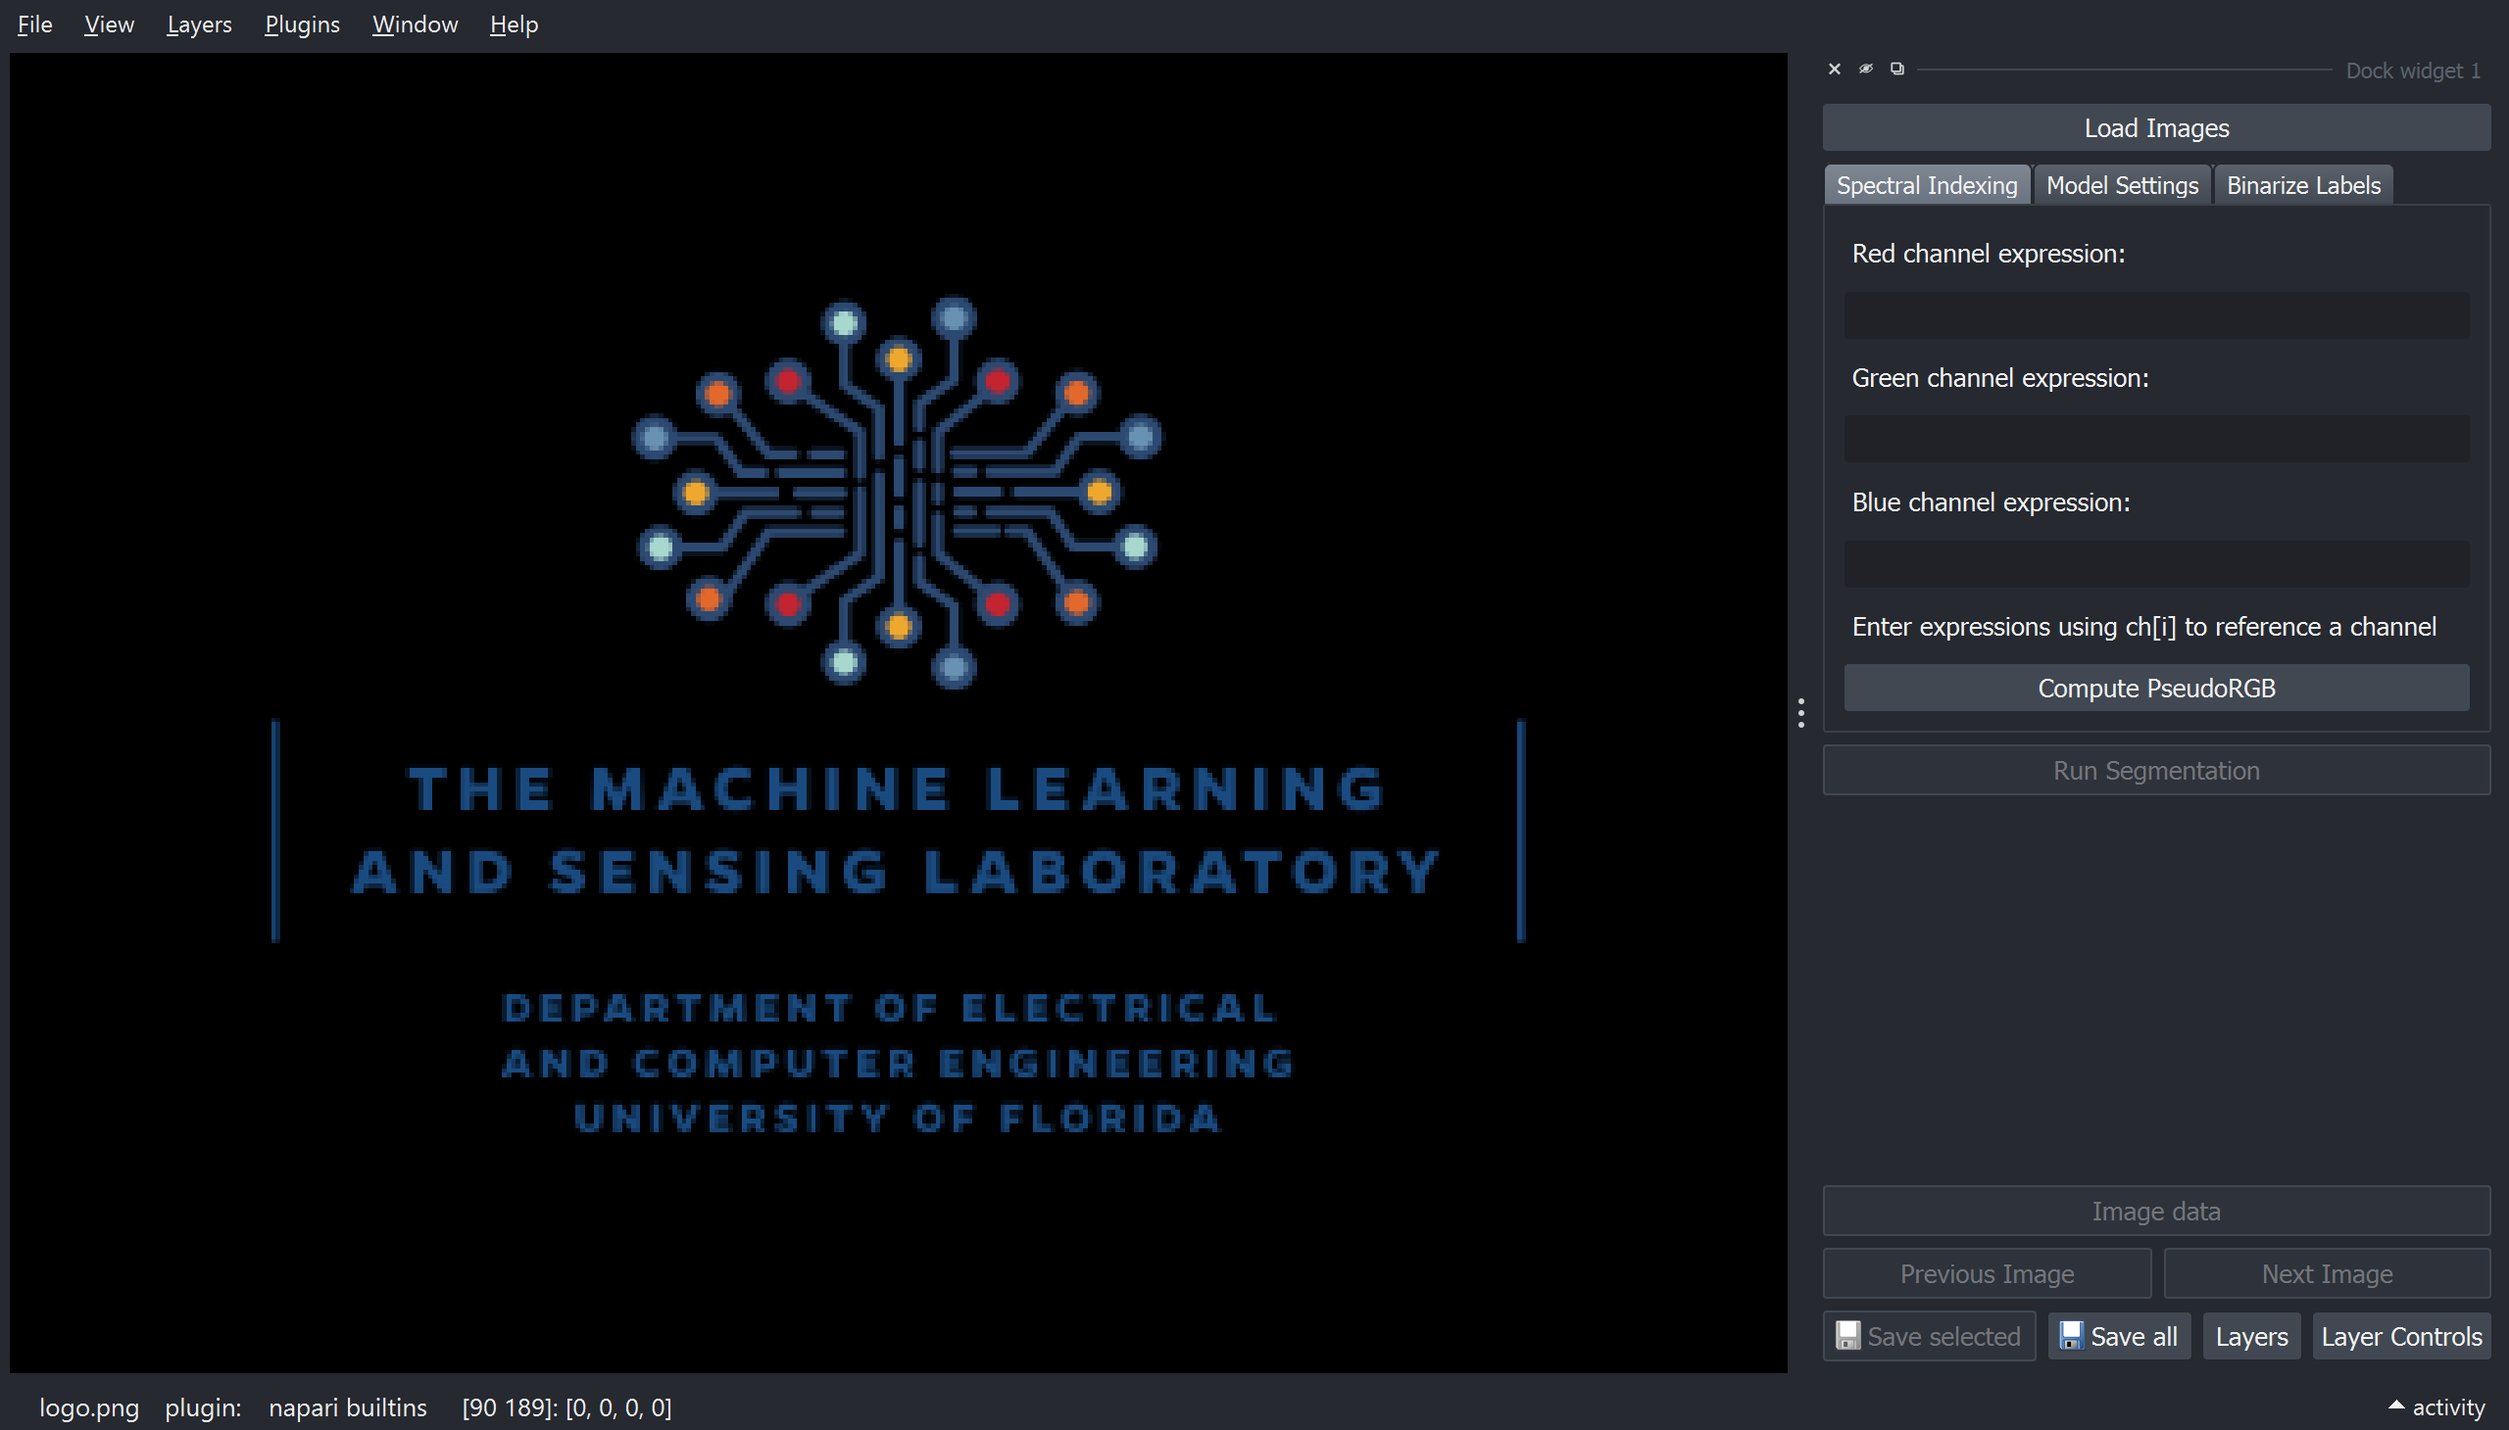
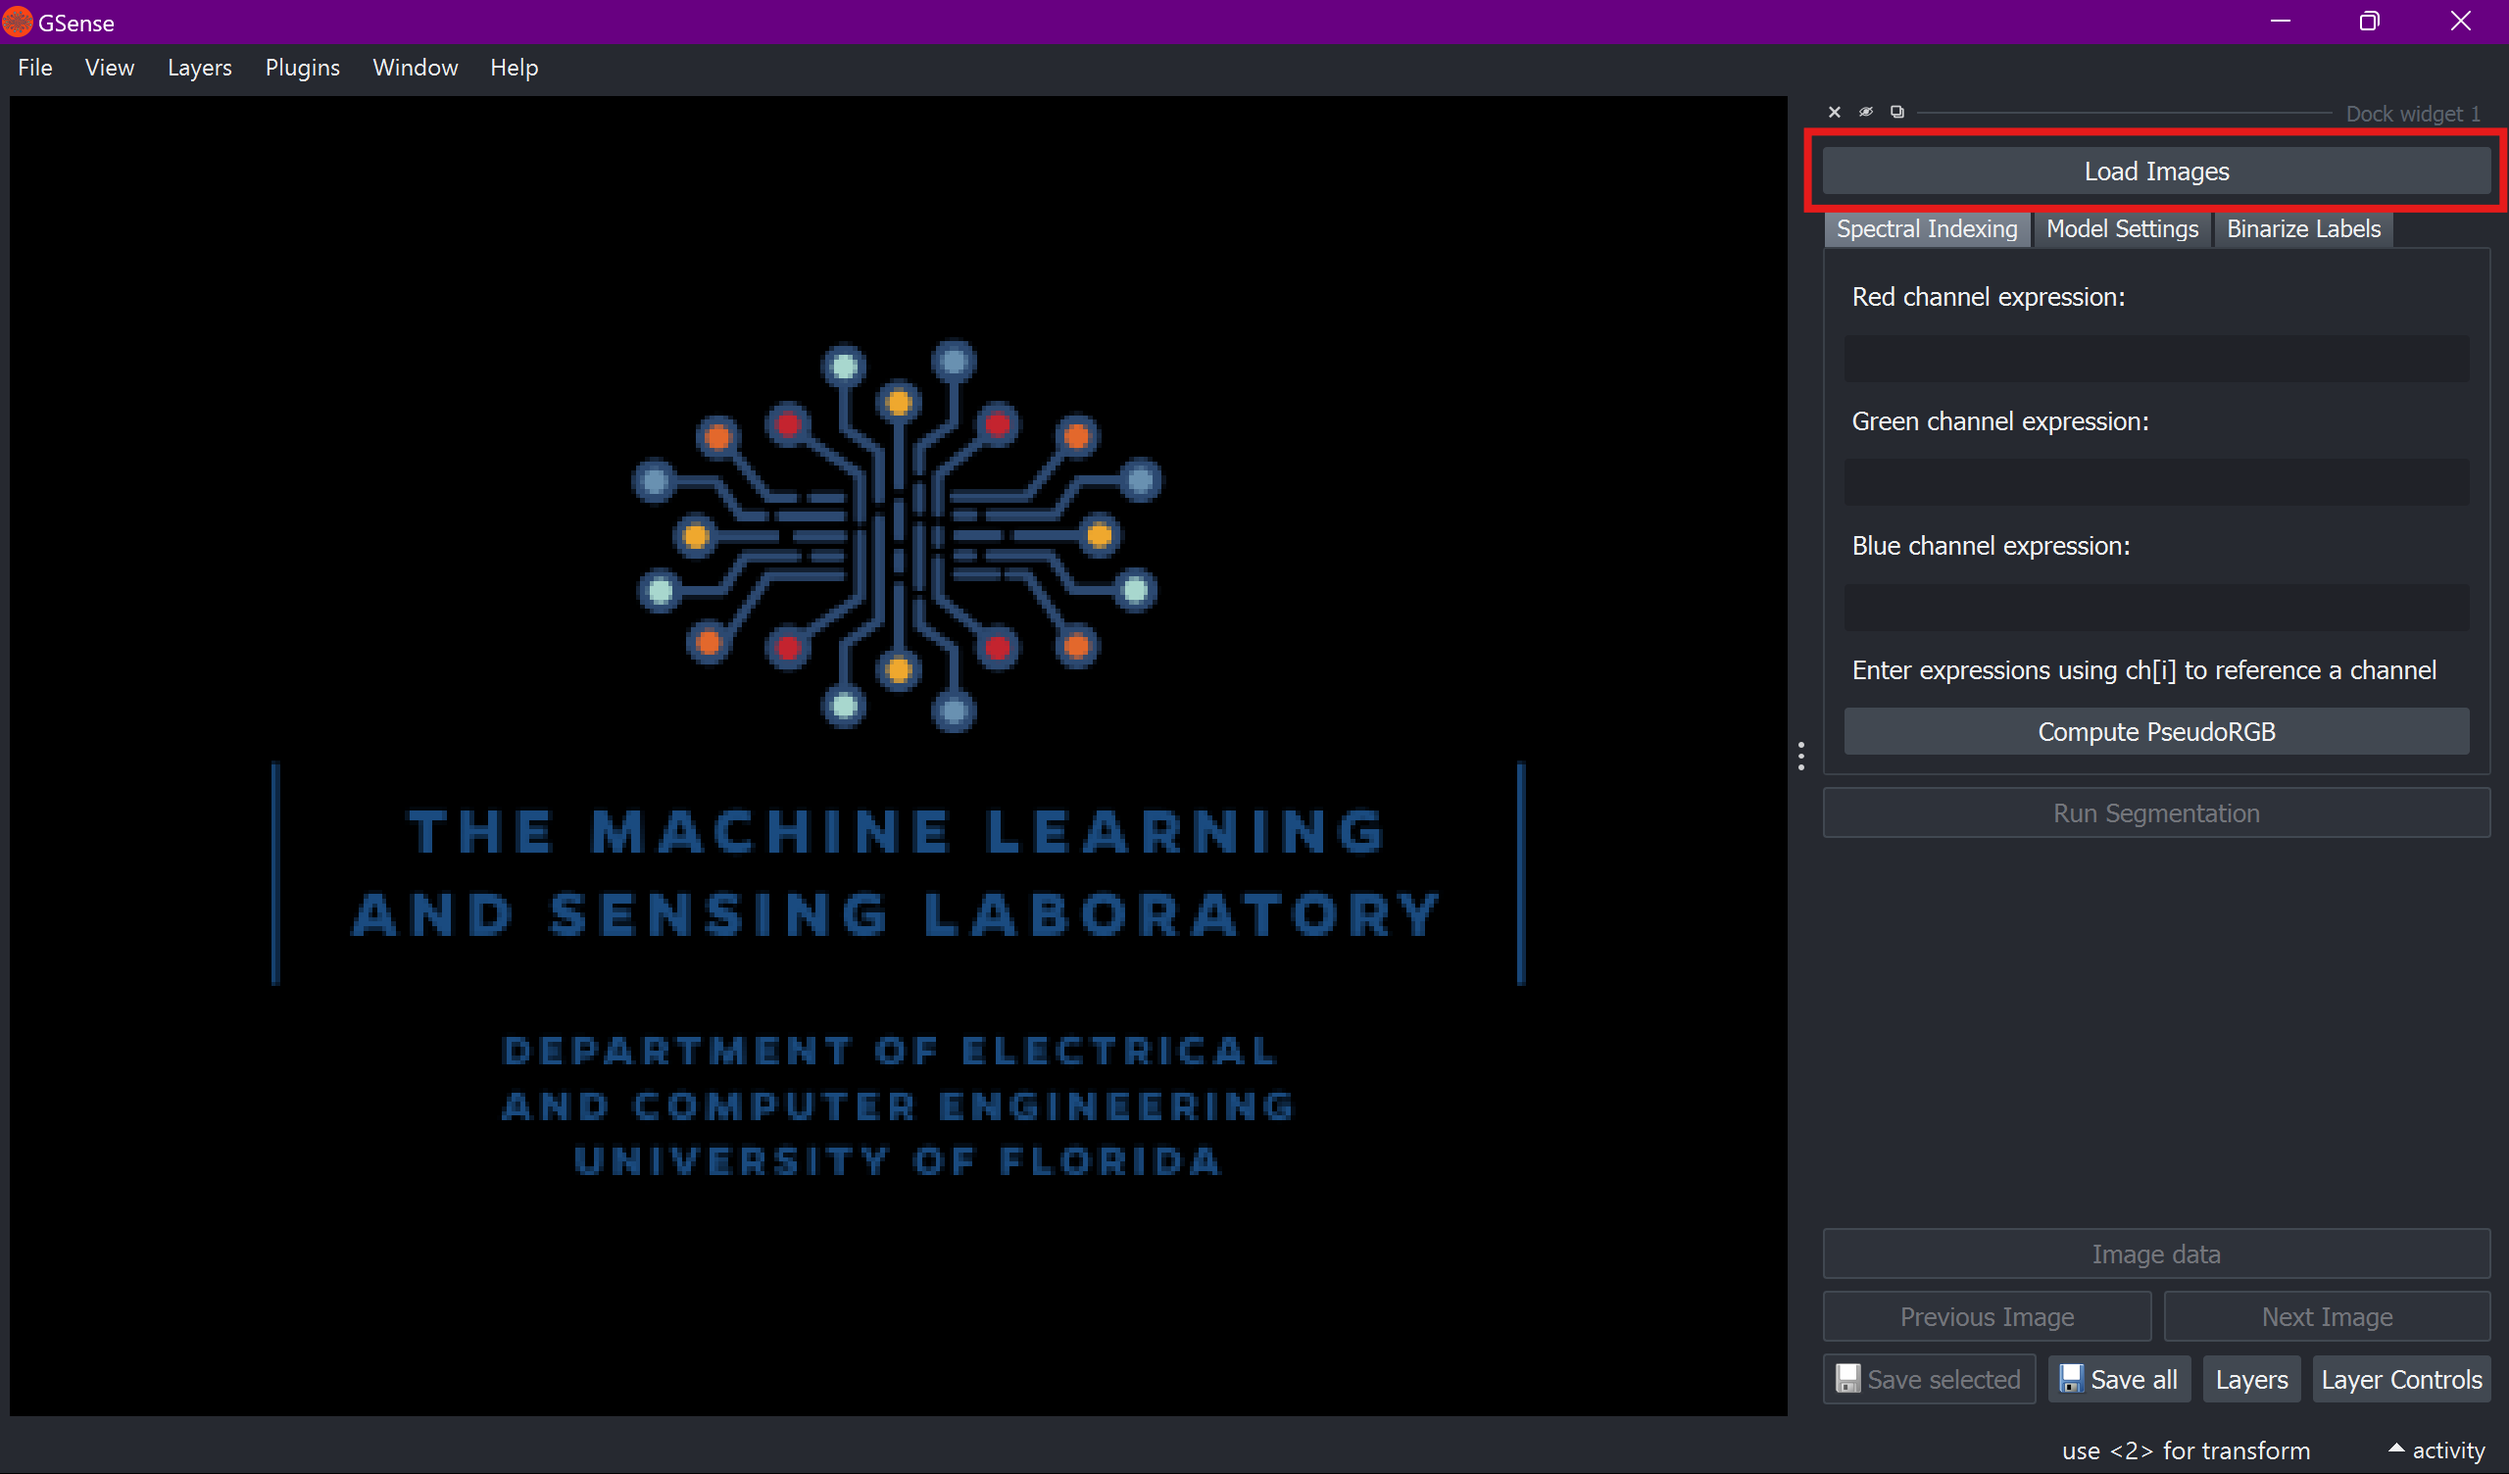
GITBOOK-13: No subject

diff --git a/docs/basics/editor/README.md b/docs/basics/editor/README.md
@@ -1,9 +1,13 @@
 ---
-description: with Meta AI's Segment Anything Model (SAM)
 icon: images
+description: with Meta AI's Segment Anything Model (SAM)
 ---
 
 # Image Segmentation
+
+The image segmentation feature employs Meta AI's Segment Anything Model (SAM) to partition images into distinct, meaningful segments. This state-of-the-art Vision Transformer based promptable segmentation algorithm with zero-shot generalization allows for precise isolation of image components.&#x20;
+
+###
 
 ### Usage
 
@@ -19,12 +23,3 @@ Note: Make sure to choose 'Vit-b' model type from the dropdown field in the Mode
 
 
 
-GitBook has a powerful block-based editor that allows you to seamlessly create, update, and enhance your content.
-
-<figure><img src="https://gitbookio.github.io/onboarding-template-images/editor-hero.png" alt=""><figcaption></figcaption></figure>
-
-### Writing content
-
-GitBook offers a range of block types for you to add to your content inline — from simple text and tables, to code blocks and more. These elements will make your pages more useful to readers, and offer extra information and context.
-
-Either start typing below, or press `/` to see a list of the blocks you can insert into your page.

diff --git a/docs/basics/markdown.md b/docs/basics/markdown.md
@@ -4,23 +4,7 @@ icon: monitor-waveform
 
 # Spectral Indexing
 
-GitBook supports many different types of content, and is backed by Markdown — meaning you can copy and paste any existing Markdown files directly into the editor!
+Spectral indexing empowers users to apply a variety of spectral indices, which can reveal specific characteristics or anomalies within images. This tool is indispensable in areas such as remote sensing and agricultural analysis, where understanding subtle spectral differences can lead to significant insights.
 
-<figure><img src="https://gitbookio.github.io/onboarding-template-images/markdown-hero.png" alt=""><figcaption></figcaption></figure>
 
-Feel free to test it out and copy the Markdown below by hovering over the code block in the upper right, and pasting into a new line underneath.
 
-```markdown
-# Heading
-
-This is some paragraph text, with a [link](https://docs.gitbook.com) to our docs. 
-
-## Heading 2
-- Point 1
-- Point 2
-- Point 3
-```
-
-{% hint style="info" %}
-If you have multiple files, GitBook makes it easy to import full repositories too — allowing you to keep your GitBook content in sync.
-{% endhint %}

diff --git a/docs/README.md b/docs/README.md
@@ -15,7 +15,7 @@ layout:
 
 # Welcome to GSense
 
-**GSense** is a comprehensive tool for the annotation of hyperspectral and RGB images. It is designed in particular to make the challenging process of hyperspectral image annotation simple and efficient. GSense is built on Napari, a powerful GUI based visualization and annotation package which helps us leverage its benefits and expand them with our own functionality.&#x20;
+[**GSense**](https://github.com/GatorSense/GSense?tab=readme-ov-file) is a comprehensive tool for the annotation of hyperspectral and RGB images. It is designed in particular to make the challenging process of hyperspectral image annotation simple and efficient. GSense is built on Napari, a powerful GUI based visualization and annotation package which helps us leverage its benefits and expand them with our own functionality.&#x20;
 
 In GSense, you can load multiple images at once, mix spectral channels to generate visual pseudo-RGB representations, segment images using Meta AI's Segment Anything Model with default or custom model checkpoints, and export annotation masks.&#x20;
 

diff --git a/docs/getting-started/publish-your-docs/main-functionalities.md b/docs/getting-started/publish-your-docs/main-functionalities.md
@@ -1,0 +1,16 @@
+---
+description: >-
+  To enhance the analysis and annotation of loaded images, utilize the spectral
+  indexing, image segmentation, and label binarization functionalities of
+  GSense.
+---
+
+# Main functionalities
+
+<table><thead><tr><th width="247">Spectral Indexing</th><th width="231">Image Segmentation</th><th>Label Binarizer</th></tr></thead><tbody><tr><td><img src="../../.gitbook/assets/image (13).png" alt="" data-size="original"></td><td><img src="../../.gitbook/assets/image (14).png" alt="" data-size="original"></td><td><img src="../../.gitbook/assets/image (9).png" alt=""></td></tr></tbody></table>
+
+**Spectral Indexing**: Apply spectral indices to images to generate pseudo-RGB (false-color) images for identifying characteristics or anomalies, useful in remote sensing.
+
+**Image Segmentation**: Partition generated pseudo-RGB images into meaningful segments for downstream computer vision applications.
+
+**Label Binarizer**: Convert categorical labels to binary labels for machine learning model training.

diff --git a/docs/getting-started/quickstart.md b/docs/getting-started/quickstart.md
@@ -95,20 +95,4 @@ python -m app.main
 
 ### Interface
 
-<figure><img src="../.gitbook/assets/image.png" alt=""><figcaption></figcaption></figure>
-
-
-
-### Import
-
-GitBook supports importing content from many popular writing tools and formats. If your content already exists, you can upload a file or group of files to be imported.
-
-<div data-full-width="false">
-
-<figure><img src="https://gitbookio.github.io/onboarding-template-images/quickstart-import.png" alt=""><figcaption></figcaption></figure>
-
-</div>
-
-### Sync a repository
-
-GitBook also allows you to set up a bi-directional sync with an existing repository on GitHub or GitLab. Setting up Git Sync allows you and your team to write content in GitBook or in code, and never have to worry about your content becoming out of sync.
+<figure><img src="../.gitbook/assets/image (16).png" alt=""><figcaption></figcaption></figure>

diff --git a/docs/getting-started/publish-your-docs/load-and-navigate.md b/docs/getting-started/publish-your-docs/load-and-navigate.md
@@ -1,0 +1,7 @@
+# Load and navigate
+
+<figure><img src="../../.gitbook/assets/image (15).png" alt="" width="180"><figcaption></figcaption></figure>
+
+Click the `Load Images` <mark style="color:red;">button</mark> to select a batch of hyperspectral or RGB images to load into GSense. [supported-image-formats.md](../../basics/import/supported-image-formats.md "mention") are PNG, JPG, TIF, BMP, RAW, and DAT.
+
+Once you have loaded your images into GSense, you can navigate through them using the `Previous Image` and `Next Image` <mark style="color:green;">buttons</mark>. Image data is accessible using `Image data` <mark style="color:green;">button</mark> and is automatically displayed upon loading for your convenience.

diff --git a/docs/SUMMARY.md b/docs/SUMMARY.md
@@ -6,9 +6,9 @@
 
 * [Installation](getting-started/quickstart.md)
 * [User Interface](getting-started/publish-your-docs/README.md)
-  * [Layers](getting-started/publish-your-docs/layers.md)
-  * [Layer controls](getting-started/publish-your-docs/layer-controls.md)
-  * [Navigation](getting-started/publish-your-docs/navigation.md)
+  * [Load and navigate](getting-started/publish-your-docs/load-and-navigate.md)
+  * [Main functionalities](getting-started/publish-your-docs/main-functionalities.md)
+  * [Page](getting-started/publish-your-docs/page.md)
 
 ## Basics
 

diff --git a/docs/basics/binarizer.md b/docs/basics/binarizer.md
@@ -4,3 +4,4 @@ icon: binary-circle-check
 
 # Binarizer
 
+Label Binarizer is designed to simplify the process of categorizing image data by converting labels into a binary format. This functionality is crucial for machine learning applications, where maintaining consistent and simplified data input formats is key to achieving accurate model training and predictions.

diff --git a/docs/getting-started/publish-your-docs/README.md b/docs/getting-started/publish-your-docs/README.md
@@ -4,7 +4,4 @@ icon: browsers
 
 # User Interface
 
-<figure><img src="../../.gitbook/assets/image.png" alt=""><figcaption></figcaption></figure>
-
-
-
+<figure><img src="../../.gitbook/assets/image (16).png" alt=""><figcaption><p>GSense launch screen</p></figcaption></figure>

diff --git a/docs/getting-started/publish-your-docs/page.md b/docs/getting-started/publish-your-docs/page.md
@@ -1,0 +1,2 @@
+# Page
+
